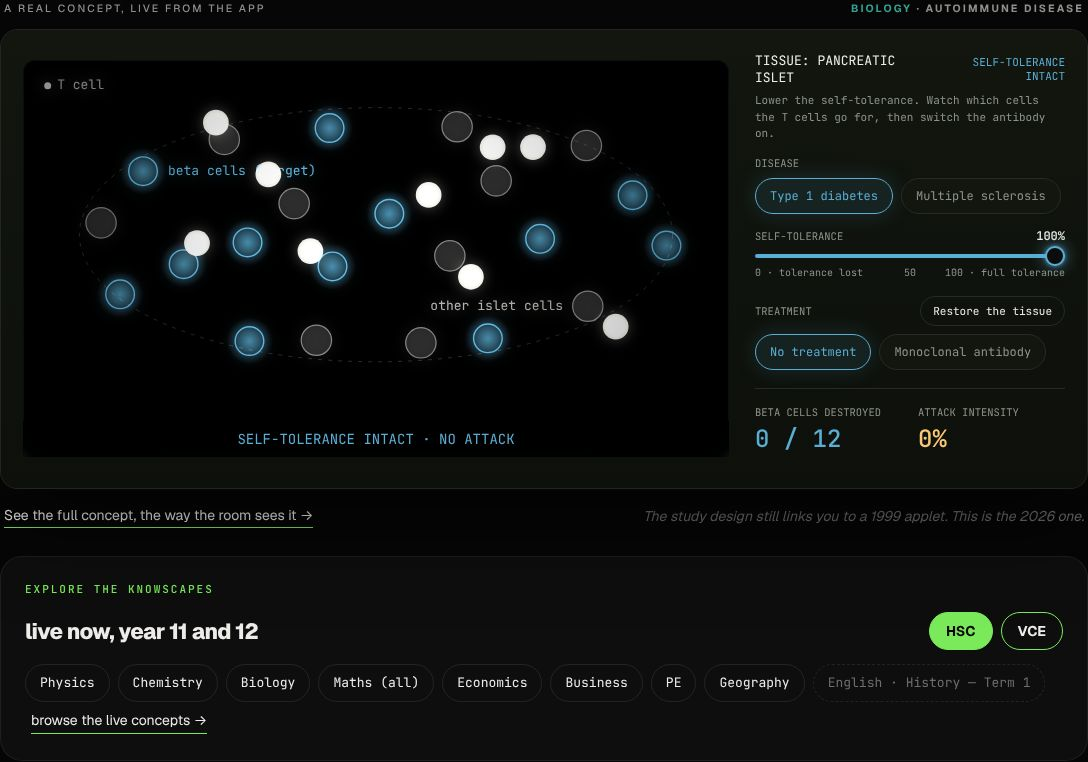
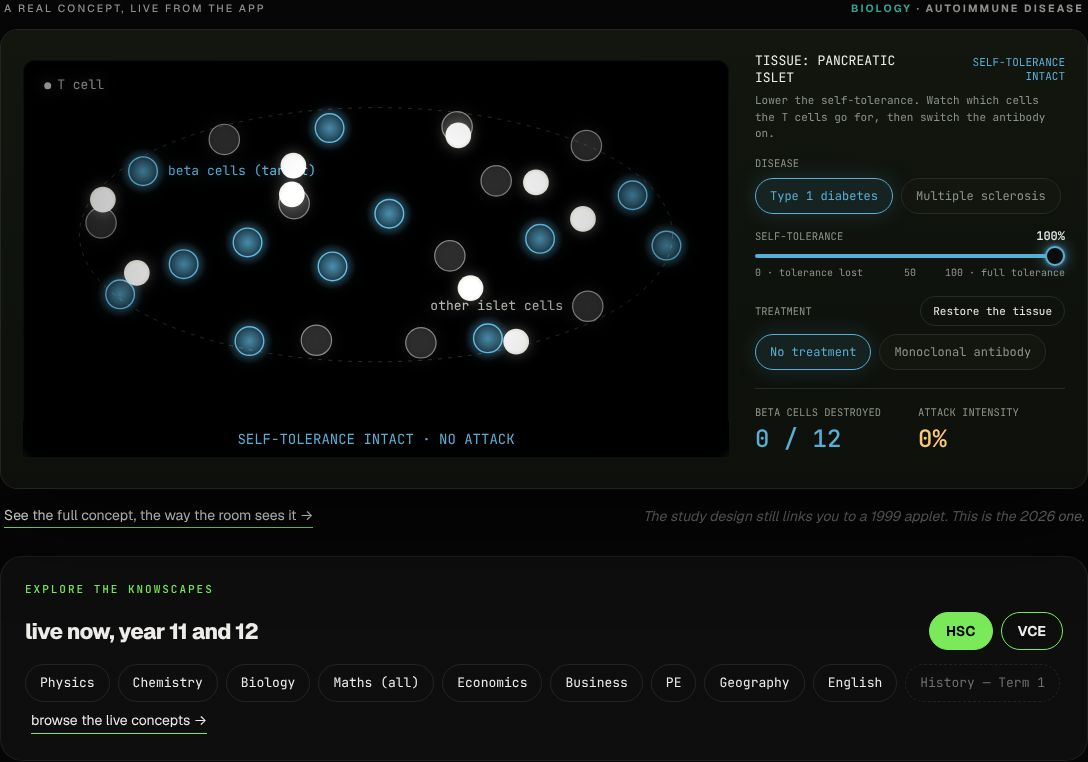
for-teachers: English is live in the explore card
- English joins both boards: HSC -> /hsc/english-advanced/, VCE -> /vce/english/.
- The Term 1 pill keeps History only ("History — Term 1").
- The pill row above the widget reads "+ 7 more live" (12 live subjects, 5 pills).
- explore-check: VCE 12 in both cards, 23 links all 200. Rig ALL PASS.

Claude-Session: https://claude.ai/code/session_01WVwU9MB4WpVxkWaqHceQfY

diff --git a/for-teachers.html b/for-teachers.html
@@ -388,8 +388,8 @@ html.kw-snap{scroll-snap-type:y proximity}
     <div class="explore" data-explore="widget">
       <span class="kicker">explore the knowscapes</span>
       <div class="ex-top"><h3 class="ex-t">Live now, Year 11 and 12</h3><div class="ex-tog" role="group" aria-label="Pick your board"><button class="pill" type="button" data-cert="hsc" aria-pressed="true">HSC</button><button class="pill" type="button" data-cert="vce" aria-pressed="false">VCE</button></div></div>
-      <div class="ex-list" data-cert="hsc"><a class="ex-s" href="/hsc/physics/">Physics</a><a class="ex-s" href="/hsc/chemistry/">Chemistry</a><a class="ex-s" href="/hsc/biology/">Biology</a><a class="ex-s" href="/hsc/mathematics-advanced/">Maths (all)</a><a class="ex-s" href="/hsc/economics/">Economics</a><a class="ex-s" href="/hsc/business-studies/">Business</a><a class="ex-s" href="/hsc/health-and-movement-science/">PE</a><a class="ex-s" href="/hsc/geography/">Geography</a><span class="ex-s soon">English · History — Term 1</span><a class="ex-all" href="/hsc/">browse the live concepts &#8594;</a></div>
-      <div class="ex-list" data-cert="vce" hidden><a class="ex-s" href="/vce/physics/">Physics</a><a class="ex-s" href="/vce/chemistry/">Chemistry</a><a class="ex-s" href="/vce/biology/">Biology</a><a class="ex-s" href="/vce/psychology/">Psychology</a><a class="ex-s" href="/vce/maths-methods/">Maths (all)</a><a class="ex-s" href="/vce/economics/">Economics</a><a class="ex-s" href="/vce/accounting/">Accounting</a><a class="ex-s" href="/vce/business-management/">Business</a><a class="ex-s" href="/vce/physical-education/">PE</a><a class="ex-s" href="/vce/health-hd/">Health</a><a class="ex-s" href="/vce/geography/">Geography</a><span class="ex-s soon">English · History — Term 1</span><a class="ex-all" href="/vce/">browse the live concepts &#8594;</a></div>
+      <div class="ex-list" data-cert="hsc"><a class="ex-s" href="/hsc/physics/">Physics</a><a class="ex-s" href="/hsc/chemistry/">Chemistry</a><a class="ex-s" href="/hsc/biology/">Biology</a><a class="ex-s" href="/hsc/mathematics-advanced/">Maths (all)</a><a class="ex-s" href="/hsc/economics/">Economics</a><a class="ex-s" href="/hsc/business-studies/">Business</a><a class="ex-s" href="/hsc/health-and-movement-science/">PE</a><a class="ex-s" href="/hsc/geography/">Geography</a><a class="ex-s" href="/hsc/english-advanced/">English</a><span class="ex-s soon">History — Term 1</span><a class="ex-all" href="/hsc/">browse the live concepts &#8594;</a></div>
+      <div class="ex-list" data-cert="vce" hidden><a class="ex-s" href="/vce/physics/">Physics</a><a class="ex-s" href="/vce/chemistry/">Chemistry</a><a class="ex-s" href="/vce/biology/">Biology</a><a class="ex-s" href="/vce/psychology/">Psychology</a><a class="ex-s" href="/vce/maths-methods/">Maths (all)</a><a class="ex-s" href="/vce/economics/">Economics</a><a class="ex-s" href="/vce/accounting/">Accounting</a><a class="ex-s" href="/vce/business-management/">Business</a><a class="ex-s" href="/vce/physical-education/">PE</a><a class="ex-s" href="/vce/health-hd/">Health</a><a class="ex-s" href="/vce/geography/">Geography</a><a class="ex-s" href="/vce/english/">English</a><span class="ex-s soon">History — Term 1</span><a class="ex-all" href="/vce/">browse the live concepts &#8594;</a></div>
     </div>
     </div>
   </div>
@@ -569,8 +569,8 @@ html.kw-snap{scroll-snap-type:y proximity}
     <div class="explore" data-explore="final">
       <span class="kicker">explore the knowscapes</span>
       <div class="ex-top"><h3 class="ex-t">Live now, Year 11 and 12</h3><div class="ex-tog" role="group" aria-label="Pick your board"><button class="pill" type="button" data-cert="hsc" aria-pressed="true">HSC</button><button class="pill" type="button" data-cert="vce" aria-pressed="false">VCE</button></div></div>
-      <div class="ex-list" data-cert="hsc"><a class="ex-s" href="/hsc/physics/">Physics</a><a class="ex-s" href="/hsc/chemistry/">Chemistry</a><a class="ex-s" href="/hsc/biology/">Biology</a><a class="ex-s" href="/hsc/mathematics-advanced/">Maths (all)</a><a class="ex-s" href="/hsc/economics/">Economics</a><a class="ex-s" href="/hsc/business-studies/">Business</a><a class="ex-s" href="/hsc/health-and-movement-science/">PE</a><a class="ex-s" href="/hsc/geography/">Geography</a><span class="ex-s soon">English · History — Term 1</span><a class="ex-all" href="/hsc/">browse the live concepts &#8594;</a></div>
-      <div class="ex-list" data-cert="vce" hidden><a class="ex-s" href="/vce/physics/">Physics</a><a class="ex-s" href="/vce/chemistry/">Chemistry</a><a class="ex-s" href="/vce/biology/">Biology</a><a class="ex-s" href="/vce/psychology/">Psychology</a><a class="ex-s" href="/vce/maths-methods/">Maths (all)</a><a class="ex-s" href="/vce/economics/">Economics</a><a class="ex-s" href="/vce/accounting/">Accounting</a><a class="ex-s" href="/vce/business-management/">Business</a><a class="ex-s" href="/vce/physical-education/">PE</a><a class="ex-s" href="/vce/health-hd/">Health</a><a class="ex-s" href="/vce/geography/">Geography</a><span class="ex-s soon">English · History — Term 1</span><a class="ex-all" href="/vce/">browse the live concepts &#8594;</a></div>
+      <div class="ex-list" data-cert="hsc"><a class="ex-s" href="/hsc/physics/">Physics</a><a class="ex-s" href="/hsc/chemistry/">Chemistry</a><a class="ex-s" href="/hsc/biology/">Biology</a><a class="ex-s" href="/hsc/mathematics-advanced/">Maths (all)</a><a class="ex-s" href="/hsc/economics/">Economics</a><a class="ex-s" href="/hsc/business-studies/">Business</a><a class="ex-s" href="/hsc/health-and-movement-science/">PE</a><a class="ex-s" href="/hsc/geography/">Geography</a><a class="ex-s" href="/hsc/english-advanced/">English</a><span class="ex-s soon">History — Term 1</span><a class="ex-all" href="/hsc/">browse the live concepts &#8594;</a></div>
+      <div class="ex-list" data-cert="vce" hidden><a class="ex-s" href="/vce/physics/">Physics</a><a class="ex-s" href="/vce/chemistry/">Chemistry</a><a class="ex-s" href="/vce/biology/">Biology</a><a class="ex-s" href="/vce/psychology/">Psychology</a><a class="ex-s" href="/vce/maths-methods/">Maths (all)</a><a class="ex-s" href="/vce/economics/">Economics</a><a class="ex-s" href="/vce/accounting/">Accounting</a><a class="ex-s" href="/vce/business-management/">Business</a><a class="ex-s" href="/vce/physical-education/">PE</a><a class="ex-s" href="/vce/health-hd/">Health</a><a class="ex-s" href="/vce/geography/">Geography</a><a class="ex-s" href="/vce/english/">English</a><span class="ex-s soon">History — Term 1</span><a class="ex-all" href="/vce/">browse the live concepts &#8594;</a></div>
     </div>
   </div>
 </section>
@@ -666,7 +666,7 @@ window.KWTeachersV2 = function(root){
     b.addEventListener('click', function(){ if (k === current) return; kwTrack('subject_pill', {subject:k}); setSubject(k); });
     pills.appendChild(b);
   });
-  var more = document.createElement('span'); more.className='pill more'; more.textContent='+ 6 more live'; pills.appendChild(more);
+  var more = document.createElement('span'); more.className='pill more'; more.textContent='+ 7 more live'; pills.appendChild(more);
 
   var frame = document.getElementById('ks-frame'), stage = document.getElementById('ks-stage');
   // Homepage-style crop, template-agnostic: find the model (first canvas), keep its card plus any sibling control cards,

diff --git a/_patches/for-teachers-v2/build.py b/_patches/for-teachers-v2/build.py
@@ -171,6 +171,9 @@ for m in re.finditer(r'<span>([^<]+?)\s*((?:<a href="[^"]+">(?:HSC|VCE)</a>)+)</
         BOARD[cert.lower()].append((m.group(1).strip(), h.replace('https://knowhere.me/', '/')))
 SOON = re.search(r'<span class="soon">([^<]+)</span>', LIVE).group(1)
 assert len(BOARD['hsc']) == 8 and len(BOARD['vce']) == 11, BOARD
+# English is live (Cat, 5 Nov): it joins both boards and leaves the Term 1 pill, which keeps History
+BOARD['hsc'].append(('English', '/hsc/english-advanced/')); BOARD['vce'].append(('English', '/vce/english/'))
+assert SOON == 'English · History — Term 1'; SOON = 'History — Term 1'
 def explore(where):
     lists = ''.join(
         f'\n      <div class="ex-list" data-cert="{c}"{"" if c == "hsc" else " hidden"}>'
@@ -244,6 +247,8 @@ s = swap(s, "'[data-kw=moved]{margin:12px 0 0!important;padding:0!important;bord
 s = swap(s, "url:'https://knowhere.me/vce/physics/'", "url:'/hsc/physics/photon-model-of-light'")
 s = s.replace("url:'https://knowhere.me/", "url:'/")
 s = re.sub(r"widget:'widgets/", "widget:'/widgets/", s)
+# the pill row counts the live subjects past its five: 12 live with English (Cat, 5 Nov)
+s = swap(s, "more.textContent='+ 6 more live'", "more.textContent='+ 7 more live'")
 # the posters, one pair per subject (captured from the cropped state by shoot-posters.js)
 s = swap(s, "  var ORDER = ['physics','chemistry','biology','psychology','maths'];",
          "  var ORDER = ['physics','chemistry','biology','psychology','maths'];\n"
